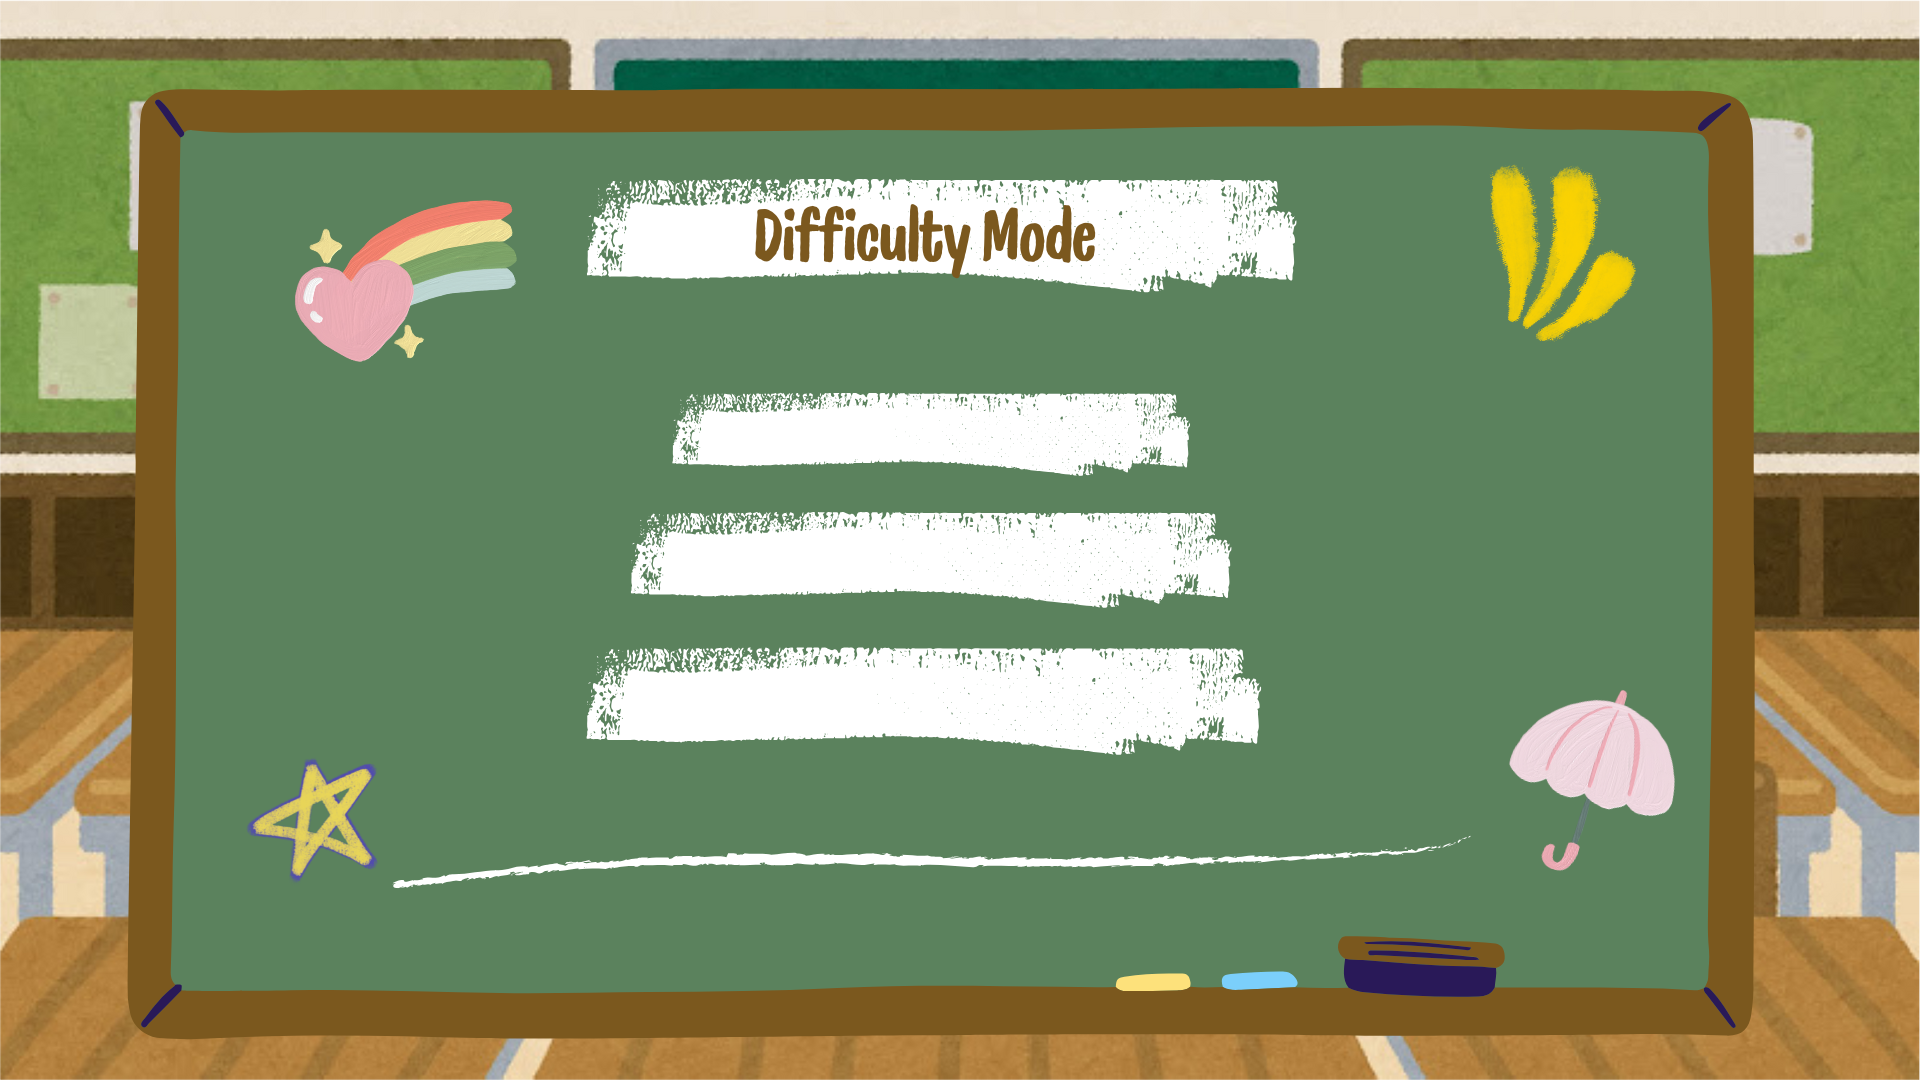
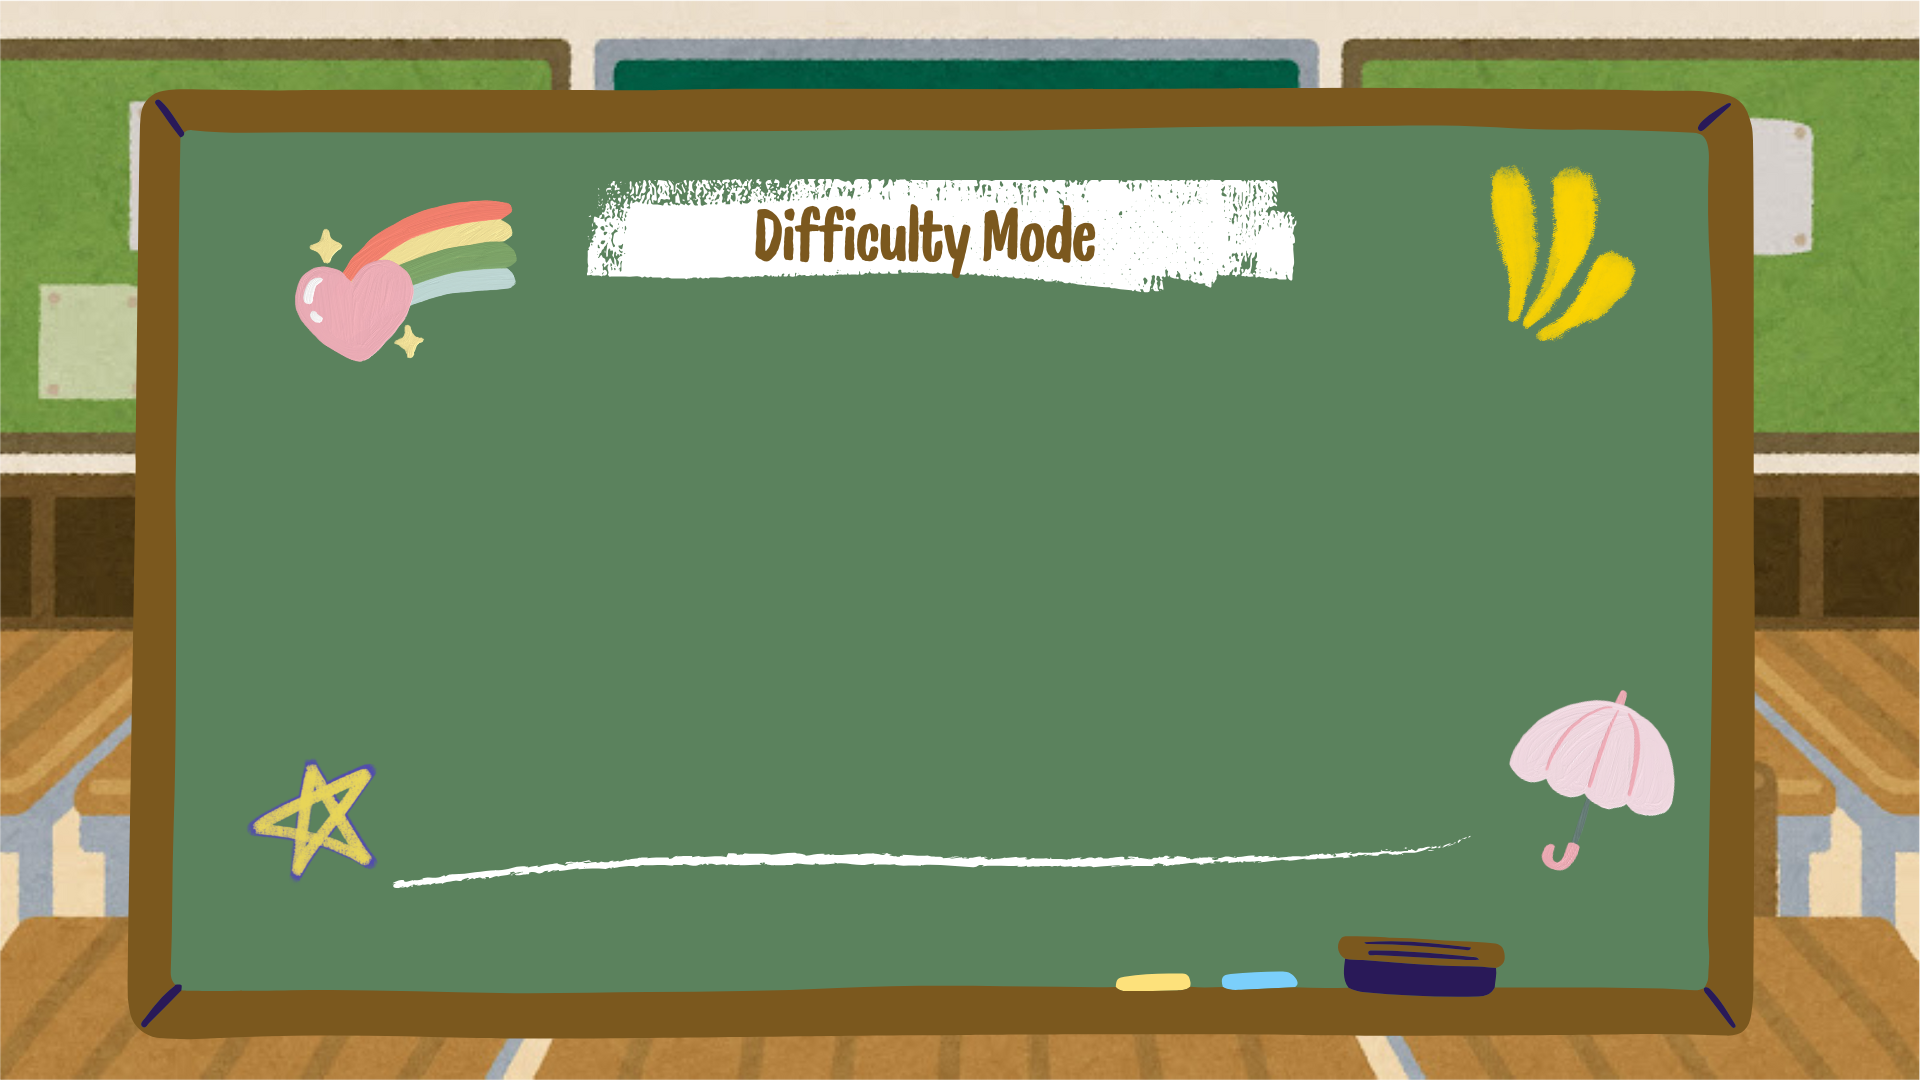
feat: Complete Difficulty Selection Page

Changed region(s): [[0.2812, 0.3667, 0.6562, 0.7028]]

diff --git a/Assessment 1 - Skills Portfolio/01-MathQuiz.py b/Assessment 1 - Skills Portfolio/01-MathQuiz.py
@@ -6,20 +6,43 @@ import time
 
 pygame.mixer.init()
 
+# ---------------- GLOBAL VARIABLES -------------------
+selected_difficulty = None  # To store: 1 (Easy), 2 (Moderate), or 3 (Advanced)
+
 # ---------------- SOUND FUNCTIONS -------------------
 def play_sound(file):
     try:
         pygame.mixer.music.load(file)
         pygame.mixer.music.play()
     except:
-        pass  # If sound file is missing, game continues without error
+        pass  # If sound file is missing, continues without error
+
+# ---------------- BUTTON ANIMATION & SOUND HELPER -------------------
+def add_button_effects(btn):
+    """Adds hover animation and click sound to a button."""
+    original_color = btn['bg']
+    
+    # Define highlight color (Lighter Brown for all buttons now)
+    highlight_color = "#7d4e4e" 
+
+    def on_enter(e):
+        btn['background'] = highlight_color
+
+    def on_leave(e):
+        btn['background'] = original_color
+
+    def on_click(e):
+        play_sound("button_press.mp3")
+
+    btn.bind("<Enter>", on_enter)
+    btn.bind("<Leave>", on_leave)
+    btn.bind("<Button-1>", on_click, add="+")
 
 # ---------------- FADE IN EFFECT -------------------
 def fade_in(widget, delay=7):
     try:
-        # Reset alpha to 0 before fading in
         widget.attributes("-alpha", 0.0)
-        for i in range(0, 100, 5):  # Jump by 5 for faster fade
+        for i in range(0, 100, 5):
             widget.attributes("-alpha", i / 100)
             widget.update()
             time.sleep(delay / 1000)
@@ -31,19 +54,30 @@ def fade_in(widget, delay=7):
 root = tk.Tk()
 root.title("Maths Quiz")
 root.geometry("1200x700")
-root.attributes("-alpha", 1.0)  # Ensure window is visible if fade fails
+root.attributes("-alpha", 1.0)
 
 # ---------------- SWITCH FRAME FUNCTION -------------------
 def show_frame(frame):
     frame.tkraise()
-    # Optional: Play a click sound here if you have one
-    # play_sound("click.mp3")
+
+# ---------------- DIFFICULTY LOGIC -------------------
+def select_difficulty(level):
+    global selected_difficulty
+    selected_difficulty = level
+    
+    if level == 1:
+        mode = "Easy (1 Digit)"
+    elif level == 2:
+        mode = "Moderate (2 Digits)"
+    else:
+        mode = "Advanced (4 Digits)"
+        
+    messagebox.showinfo("Game Start", f"Starting Game in {mode} mode!\n(Page 5 coming soon...)")
 
 # ---------------- PAGE 1 – WELCOME PAGE -------------------
 page1 = tk.Frame(root)
 page1.place(relwidth=1, relheight=1)
 
-# Note: Ensure this file exists as .png
 try:
     bg1 = Image.open("01-welcome.png") 
     bg1 = bg1.resize((1200, 700))
@@ -53,7 +87,6 @@ try:
     canvas1.pack(fill="both", expand=True)
     canvas1.create_image(0, 0, image=bg1, anchor="nw")
     
-    # Button: Let's Begin the Quiz
     start_btn = tk.Button(
         page1,
         text="Let's Begin",
@@ -66,8 +99,10 @@ try:
         command=lambda: show_frame(page2)
     )
     canvas1.create_window(600, 580, window=start_btn)
+    add_button_effects(start_btn)
+    
 except Exception as e:
-    print(f"Error loading Page 1 image: {e}")
+    print(f"Error loading Page 1: {e}")
 
 # ---------------- PAGE 2 – INSTRUCTIONS PAGE -------------------
 page2 = tk.Frame(root)
@@ -82,30 +117,28 @@ try:
     canvas2.pack(fill="both", expand=True)
     canvas2.create_image(0, 0, image=bg2, anchor="nw")
     
-    # ----------- FINAL INSTRUCTIONS INSIDE OVALS -----------
     instruction_font = ("Comic Sans MS", 18, "bold")
-    instruction_fill = "#FFFFFF"  # White color as requested
+    instruction_fill = "#FFFFFF"
     
-   # Oval 1 – Left Side (Coordinates estimated for the left oval)
+    # Oval 1 – Left
     canvas2.create_text(
-        301, 365,  # x, y coordinates
+        301, 365,
         text="•10 questions per round\n•10 points-1st try correct\n•5 points-2nd try correct",
         font=instruction_font,
         fill=instruction_fill,
         justify="center"
     )
     
-    # Oval 2 – Middle (Logic: Easy/Mod/Adv). 
-    # Visual adjustment: The middle oval is lower on the board.
+    # Oval 2 – Middle
     canvas2.create_text(
-        580, 512, # Lower center
+        580, 512,
         text="•Easy-1 digit numbers\n• Moderate-2 digits\n• Advanced-4 digits",
         font=instruction_font,
         fill=instruction_fill,
         justify="center"
     )
     
-    # Oval 3 – Right Side
+    # Oval 3 – Right
     canvas2.create_text(
         885, 368, 
         text="• Choose difficulty level\n• Solve math problems\n• Type your answer",
@@ -114,8 +147,6 @@ try:
         justify="center"
     )
     
-    # Navigation button – Page 2 -> Page 3
-    # Moved to Bottom Right so it doesn't cover the middle text oval
     next_btn_page2 = tk.Button(
         page2,
         text="Next",
@@ -128,9 +159,10 @@ try:
         command=lambda: show_frame(page3)
     )
     canvas2.create_window(1080, 620, window=next_btn_page2)
+    add_button_effects(next_btn_page2)
 
 except Exception as e:
-    print(f"Error loading Page 2 image: {e}")
+    print(f"Error loading Page 2: {e}")
 
 # ---------------- PAGE 3 – ENTER LUCKY NAME -------------------
 page3 = tk.Frame(root)
@@ -145,16 +177,10 @@ try:
     canvas3.pack(fill="both", expand=True)
     canvas3.create_image(0, 0, image=bg3, anchor="nw")
     
-    # Title Text (Optional adjustment if needed)
-    # Note: Use standard font if 'Lucky Name' isn't baked into image
-    # canvas3.create_text(600, 200, text="Enter Your Lucky Name", font=("Comic Sans MS", 36, "bold"), fill="white")
-    
     name_entry = tk.Entry(page3, font=("Arial", 24), width=20, justify="center")
     canvas3.create_window(600, 350, window=name_entry)
     
-    # BUTTONS for Page 3
-    
-    # 1. Back to Instructions (Left side)
+    # Back Button
     back_btn_page3 = tk.Button(
         page3,
         text="Back to Instructions",
@@ -166,8 +192,9 @@ try:
         cursor="hand2",
         command=lambda: show_frame(page2)
     )
+    add_button_effects(back_btn_page3)
     
-    # 2. Next (Right side)
+    # Next Button -> Goes to Page 4
     next_btn_page3 = tk.Button(
         page3,
         text="Next",
@@ -177,18 +204,87 @@ try:
         activebackground="#3b5a2c",
         activeforeground="white",
         cursor="hand2",
-        command=lambda: messagebox.showinfo("Next Step", f"Hello {name_entry.get()}! Difficulty Selection coming soon.")
+        command=lambda: show_frame(page4) 
     )
+    add_button_effects(next_btn_page3)
     
-    # Placing buttons nicely below the entry box
     canvas3.create_window(450, 450, window=back_btn_page3)
     canvas3.create_window(750, 450, window=next_btn_page3)
 
 except Exception as e:
-    print(f"Error loading Page 3 image: {e}")
+    print(f"Error loading Page 3: {e}")
+
+# ---------------- PAGE 4 – DIFFICULTY SELECTION -------------------
+page4 = tk.Frame(root)
+page4.place(relwidth=1, relheight=1)
+
+try:
+    # Ensure you have UPDATED this image (deleted white strokes)
+    bg4 = Image.open("04-Difficulty.png") 
+    bg4 = bg4.resize((1200, 700))
+    bg4 = ImageTk.PhotoImage(bg4)
+    
+    canvas4 = tk.Canvas(page4)
+    canvas4.pack(fill="both", expand=True)
+    canvas4.create_image(0, 0, image=bg4, anchor="nw")
+    
+    # STYLE UPDATE: Back to Standard Brown Buttons
+    btn_font = ("Comic Sans MS", 22, "bold")
+    btn_bg = "#452929"
+    btn_fg = "white"
+    
+    # 1. Easy Button
+    btn_easy = tk.Button(
+        page4,
+        text="Easy- 1 digit",
+        font=btn_font,
+        bg=btn_bg,
+        fg=btn_fg,
+        activebackground=btn_bg,
+        activeforeground=btn_fg,
+        width=15,  # Fixed width for uniform look
+        cursor="hand2",
+        command=lambda: select_difficulty(1)
+    )
+    canvas4.create_window(360, 320, window=btn_easy)
+    add_button_effects(btn_easy)
+
+    # 2. Moderate Button
+    btn_mod = tk.Button(
+        page4,
+        text="Moderate- 2 digits",
+        font=btn_font,
+        bg=btn_bg,
+        fg=btn_fg,
+        activebackground=btn_bg,
+        activeforeground=btn_fg,
+        width=15,
+        cursor="hand2",
+        command=lambda: select_difficulty(2)
+    )
+    canvas4.create_window(510, 420, window=btn_mod)
+    add_button_effects(btn_mod)
+
+    # 3. Advanced Button
+    btn_adv = tk.Button(
+        page4,
+        text="Advanced- 4 digits",
+        font=btn_font,
+        bg=btn_bg,
+        fg=btn_fg,
+        activebackground=btn_bg,
+        activeforeground=btn_fg,
+        width=15,
+        cursor="hand2",
+        command=lambda: select_difficulty(3)
+    )
+    canvas4.create_window(690, 510, window=btn_adv)
+    add_button_effects(btn_adv)
+
+except Exception as e:
+    print(f"Error loading Page 4: {e}")
 
 # ---------------- START APP -------------------
-# Ensure page1 is shown first
 page1.tkraise()
 play_sound("welcome.mp3")
 fade_in(root)
